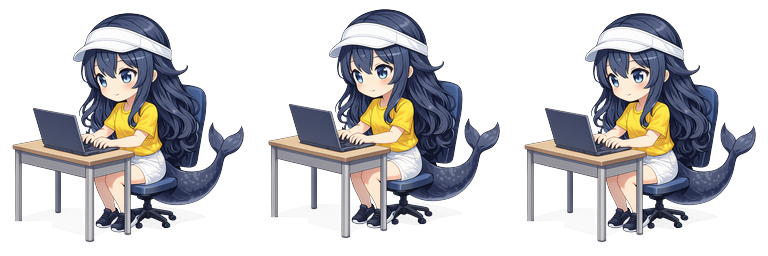
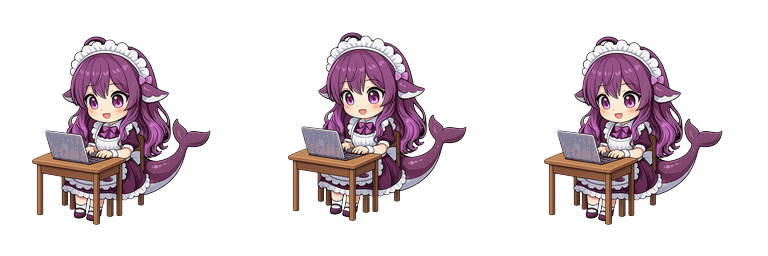
feat: 换装改为樱花版（whale-girl-sakura），替换运动版

diff --git a/src/components/SettingsTab.tsx b/src/components/SettingsTab.tsx
@@ -88,7 +88,7 @@ export const SettingsTab: React.FC<SettingsTabProps> = ({
   // 未刷到时回退本地模板
   const petSay = getCachedLlmSay(userProfile.aiConfig) ?? buildPetSayLines(records, userProfile);
 
-  // 换装（运动版 = pet-sport 资产目录）
+  // 换装（樱花版 = 樱花装目录）
   const handlePetSkinChange = (skin: string) => {
     setPetSkinState(skin);
     setPetSkin(skin);
@@ -288,7 +288,7 @@ export const SettingsTab: React.FC<SettingsTabProps> = ({
             <p className="text-[11px] font-bold text-white">大肥鱼服装</p>
           </div>
           <div className="flex gap-1.5 shrink-0">
-            {['default', 'sport'].map((s) => (
+            {['default', 'sakura'].map((s) => (
               <button
                 key={s}
                 type="button"

diff --git a/plugins/cap-gemma-llm/android/src/main/java/com/somnacare/gemmallm/WhaleGirlView.java b/plugins/cap-gemma-llm/android/src/main/java/com/somnacare/gemmallm/WhaleGirlView.java
@@ -126,7 +126,7 @@ public class WhaleGirlView extends View {
 
     public WhaleGirlView(Context c, String skin) {
         super(c);
-        this.dir = "sport".equals(skin) ? DIR_SPORT : DIR_DEFAULT;
+        this.dir = "sakura".equals(skin) ? DIR_SPORT : DIR_DEFAULT;
         idle      = load("idle", 3, 2, "blink", null);
         joy       = load("joy", 2, 5, "loop", null);
         celebrate = load("celebrate", 3, 4, "loop", null);
